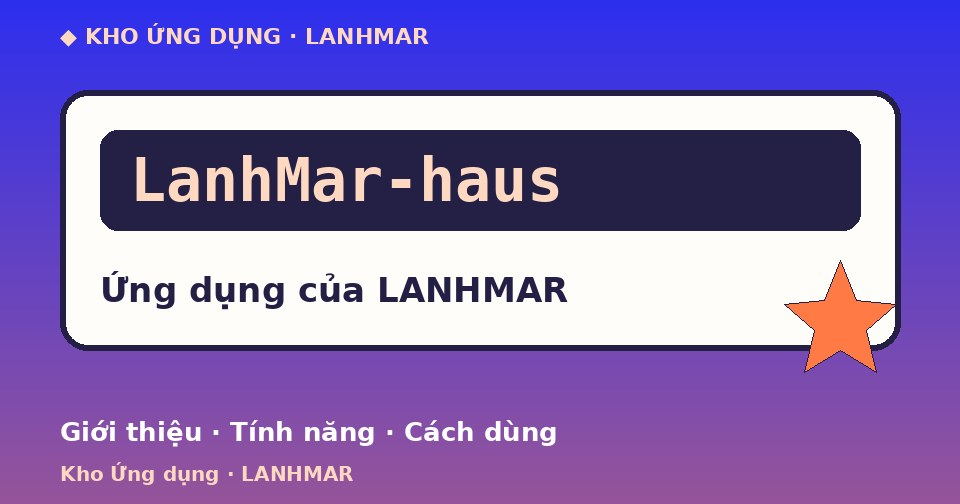
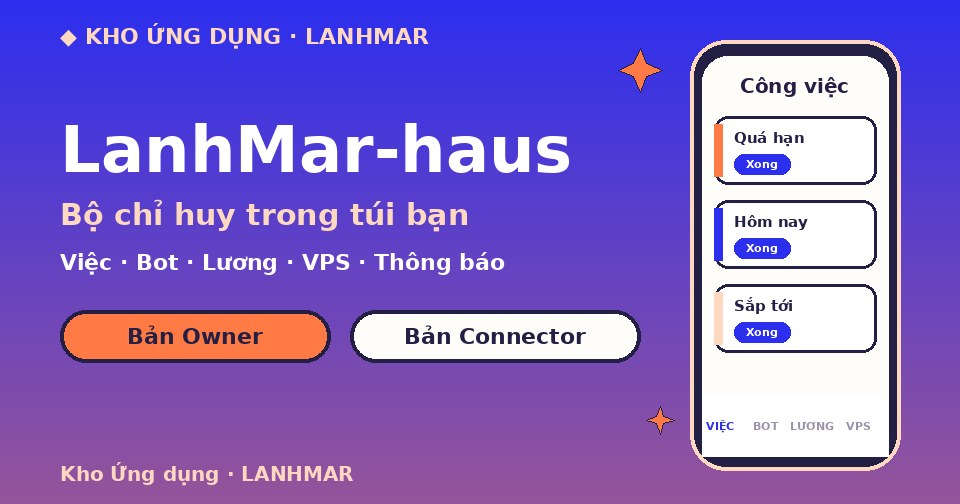
Kho Ứng dụng: giới thiệu LanhMar-haus (bản Owner và Connector), không đưa link nội bộ vào repo công khai
Claude-Session: https://claude.ai/code/session_01RqgEvEgWxcjLrv9ZG7Ny97

diff --git a/storage.html b/storage.html
@@ -6,8 +6,8 @@
 <title>Data Storage — LANHMAR</title>
 <meta name="robots" content="noindex,nofollow,noarchive">
 <link rel="icon" href="assets/img/logo-lanhmar.png">
-<link rel="stylesheet" href="kho.css?v=20261104i">
-<link rel="stylesheet" href="donate.css?v=20261104i">
+<link rel="stylesheet" href="kho.css?v=20261104j">
+<link rel="stylesheet" href="donate.css?v=20261104j">
 </head>
 <body>
 <div class="marquee"><span>★ DATA STORAGE ★ LANHMAR ★ DATA STORAGE ★ LANHMAR ★ DATA STORAGE ★ LANHMAR ★ DATA STORAGE ★ LANHMAR</span></div>
@@ -67,13 +67,13 @@
 </div>
 
 <dialog id="resDlg" class="res-dlg"></dialog>
-<script src="site-config.js?v=20261104i"></script>
-<script src="donate.js?v=20261104i"></script>
-<script src="kho-data.js?v=20261104i"></script>
-<script src="resource.js?v=20261104i"></script>
-<script src="storage-config.js?v=20261104i"></script>
-<script src="chat.js?v=20261104i"></script>
-<script src="storage.js?v=20261104i"></script>
-<script src="fx.js?v=20261104i"></script>
+<script src="site-config.js?v=20261104j"></script>
+<script src="donate.js?v=20261104j"></script>
+<script src="kho-data.js?v=20261104j"></script>
+<script src="resource.js?v=20261104j"></script>
+<script src="storage-config.js?v=20261104j"></script>
+<script src="chat.js?v=20261104j"></script>
+<script src="storage.js?v=20261104j"></script>
+<script src="fx.js?v=20261104j"></script>
 </body>
 </html>

diff --git a/kho.html b/kho.html
@@ -5,7 +5,7 @@
 <meta name="viewport" content="width=device-width,initial-scale=1">
 <title>Kho cá nhân</title>
 <meta name="robots" content="noindex,nofollow,noarchive">
-<link rel="stylesheet" href="kho.css?v=20261104i">
+<link rel="stylesheet" href="kho.css?v=20261104j">
 </head>
 <body>
 <section id="lock" class="lockbox"><form id="lockForm" class="lockcard" autocomplete="off">
@@ -71,11 +71,11 @@
 <dialog id="gDlg"><h2>Đăng nhập Google</h2><p>Đăng nhập lại bằng mail chủ kho để lưu/đồng bộ lên đám mây.</p><div id="gBtn2" class="gbtn"></div><div class="row"><button type="button" class="btn" id="gClose">Đóng</button></div></dialog>
 <dialog id="resDlg" class="res-dlg"></dialog>
 <script src="https://accounts.google.com/gsi/client" async defer></script>
-<script src="kho-data.js?v=20261104i"></script>
-<script src="resource.js?v=20261104i"></script>
-<script src="storage-config.js?v=20261104i"></script>
-<script src="chat.js?v=20261104i"></script>
-<script src="kho.js?v=20261104i"></script>
-<script src="fx.js?v=20261104i"></script>
+<script src="kho-data.js?v=20261104j"></script>
+<script src="resource.js?v=20261104j"></script>
+<script src="storage-config.js?v=20261104j"></script>
+<script src="chat.js?v=20261104j"></script>
+<script src="kho.js?v=20261104j"></script>
+<script src="fx.js?v=20261104j"></script>
 </body>
 </html>
